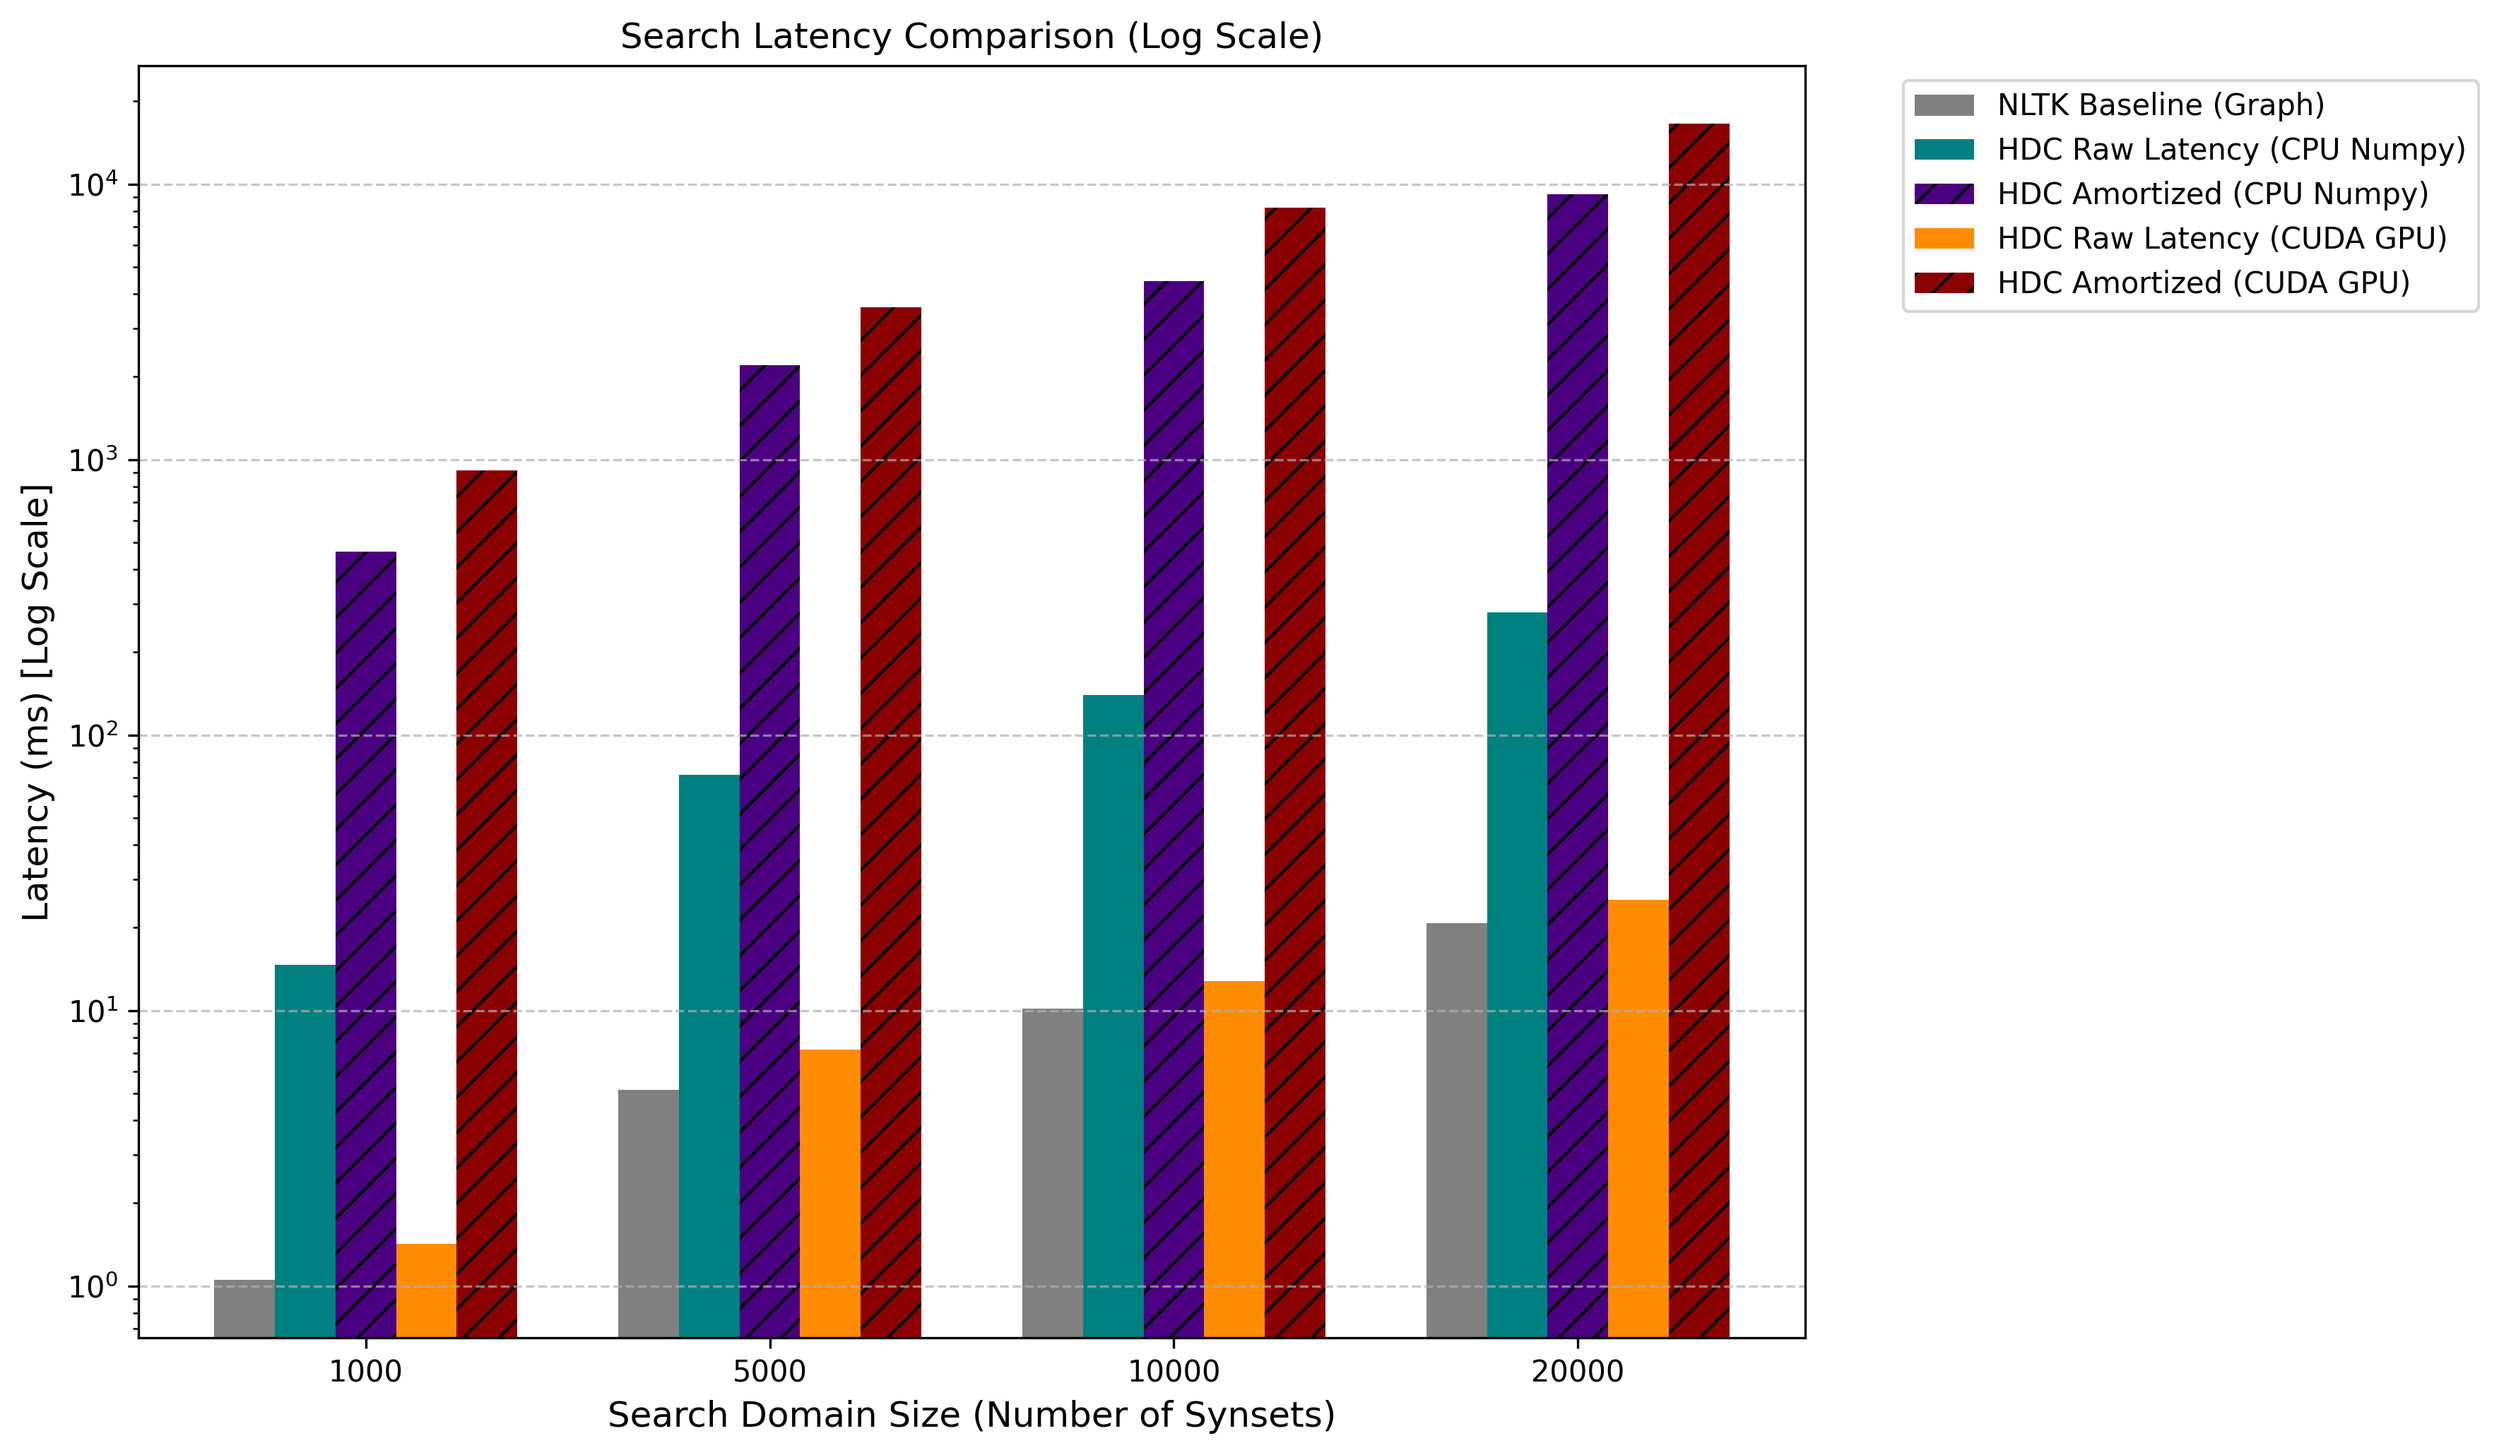
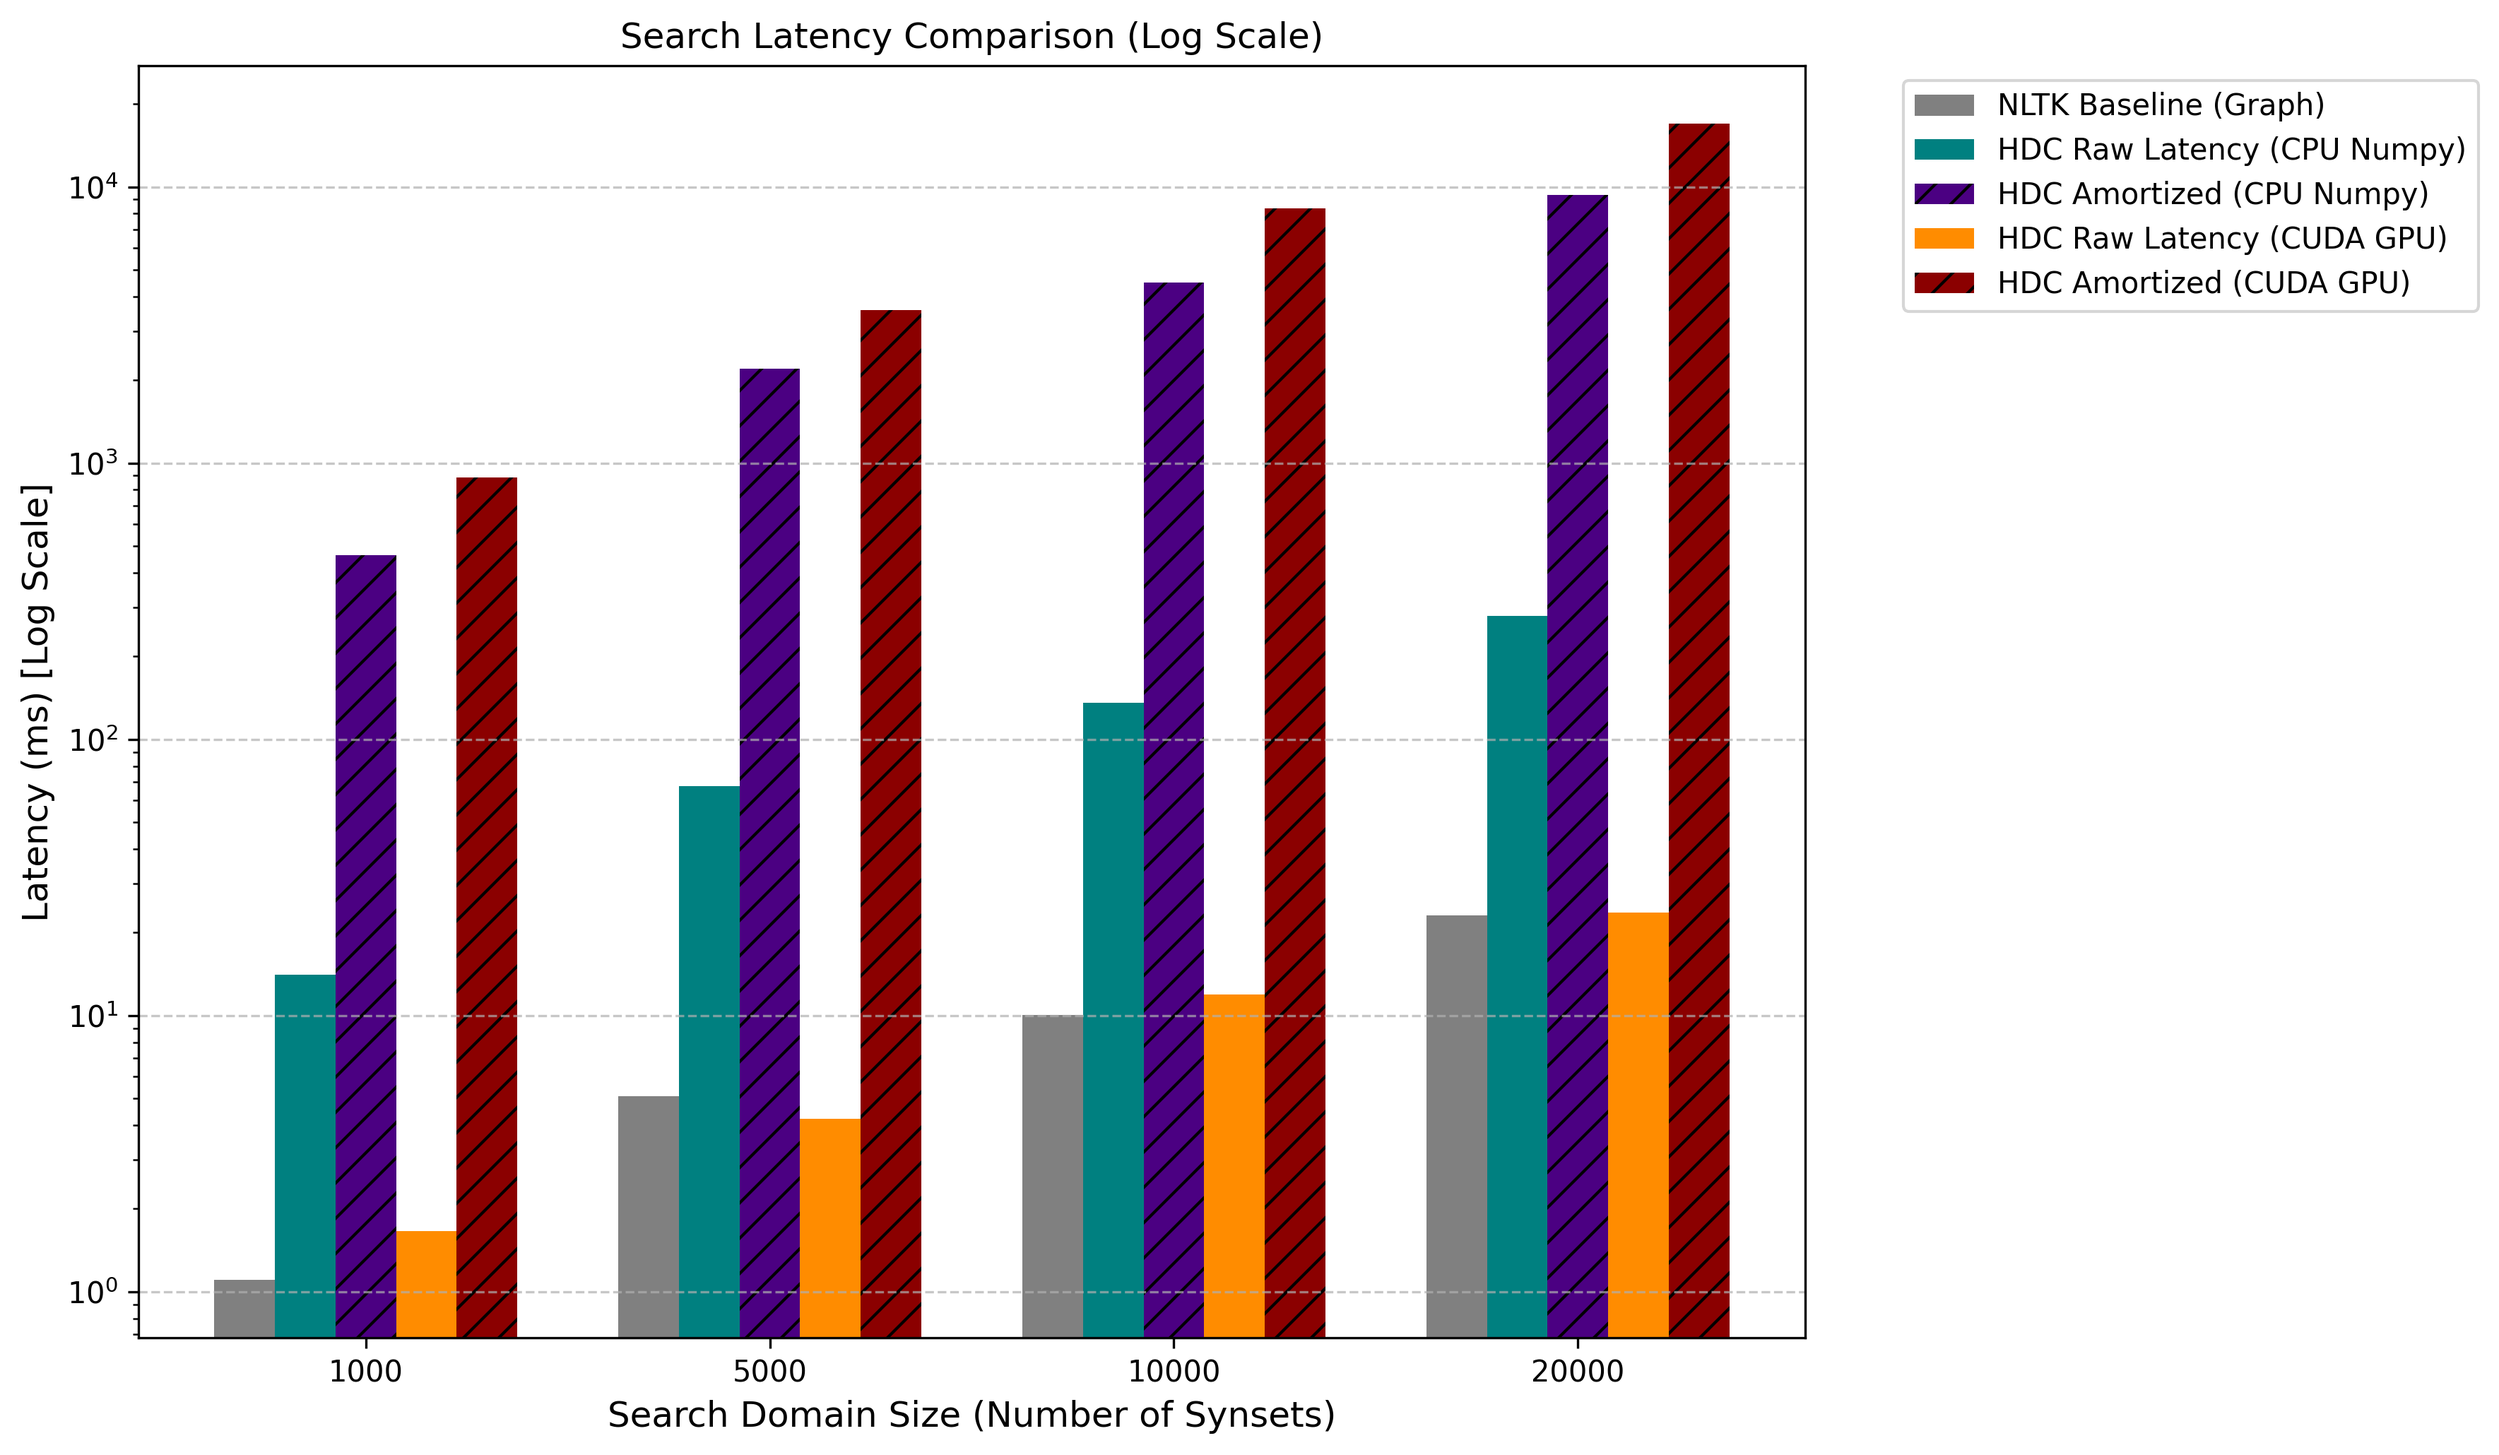
fix: update benchmark script to query the domain using permuted directed targets

diff --git a/examples/benchmark_plots.py b/examples/benchmark_plots.py
@@ -72,7 +72,7 @@ def run_benchmarks():
         max_possible = len(nltk_match_names)
         
         # --- Numpy Run ---
-        from hdc_wordnet.vsa import set_backend
+        from hdc_wordnet.vsa import set_backend, permute
         set_backend("numpy")
         
         t0 = time.perf_counter()
@@ -83,7 +83,8 @@ def run_benchmarks():
         
         rel_hypernym_np = mem_np.get_or_create("rel_hypernym")
         target_hdv_np = mem_np.get_or_create(f"synset_{target_hypernym_name}")
-        query_np = bind(rel_hypernym_np, target_hdv_np)
+        # MUST permute the target to form the correct query, matching mapper.py!
+        query_np = bind(rel_hypernym_np, permute(target_hdv_np))
         
         t0_raw = time.perf_counter()
         hdc_results_np = fast_semantic_search(query_np, sp_np, top_n=max(10, max_possible))
@@ -109,7 +110,7 @@ def run_benchmarks():
             
             rel_hypernym_pt = mem_pt.get_or_create("rel_hypernym")
             target_hdv_pt = mem_pt.get_or_create(f"synset_{target_hypernym_name}")
-            query_pt = bind(rel_hypernym_pt, target_hdv_pt)
+            query_pt = bind(rel_hypernym_pt, permute(target_hdv_pt))
             
             # Warmup
             _ = fast_semantic_search(query_pt, sp_pt, top_n=max(10, max_possible))
